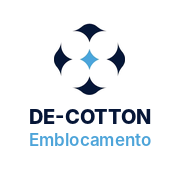
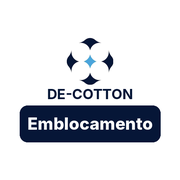
v1.10.3: ícone com o nome do app em destaque
Claude-Session: https://claude.ai/code/session_01Nmf84eCDdGJfLBLhLhZPr3

Changed region(s): [[0.0833, 0.5833, 0.9167, 0.8333], [0.2778, 0.1111, 0.6944, 0.4167], [0.25, 0.4167, 0.75, 0.5556]]

diff --git a/sw.js b/sw.js
@@ -1,5 +1,5 @@
 // Service worker: deixa o app e o leitor de códigos disponíveis sem internet
-const CACHE="emblocamento-v30";
+const CACHE="emblocamento-v31";
 const SHELL=["./","./index.html","./manifest.webmanifest","./icon-192.png","./icon-512.png","./icon-180.png","./logo.png"];
 const EXT=["https://cdn.jsdelivr.net/npm/zxing-wasm@2.2.4/dist/iife/reader/index.js","https://cdn.jsdelivr.net/npm/zxing-wasm@2.2.4/dist/reader/zxing_reader.wasm"];
 self.addEventListener("install",e=>{e.waitUntil((async()=>{const c=await caches.open(CACHE);await c.addAll(SHELL);

diff --git a/index.html b/index.html
@@ -95,7 +95,7 @@ main{padding:12px;max-width:640px;margin:0 auto;padding-bottom:40px}
 // Carrega o "pacote" gerado no app principal, confere cada fardinho lido
 // contra o lote do box, conta e devolve as leituras em arquivo.
 // ======================================================================
-const VER="1.10.2";
+const VER="1.10.3";
 const $=s=>document.querySelector(s);
 const esc=v=>String(v??"").replace(/[&<>"']/g,c=>({"&":"&amp;","<":"&lt;",">":"&gt;",'"':"&quot;","'":"&#39;"}[c]));
 const fmt=n=>n==null?"—":Number(n).toLocaleString("pt-BR");
